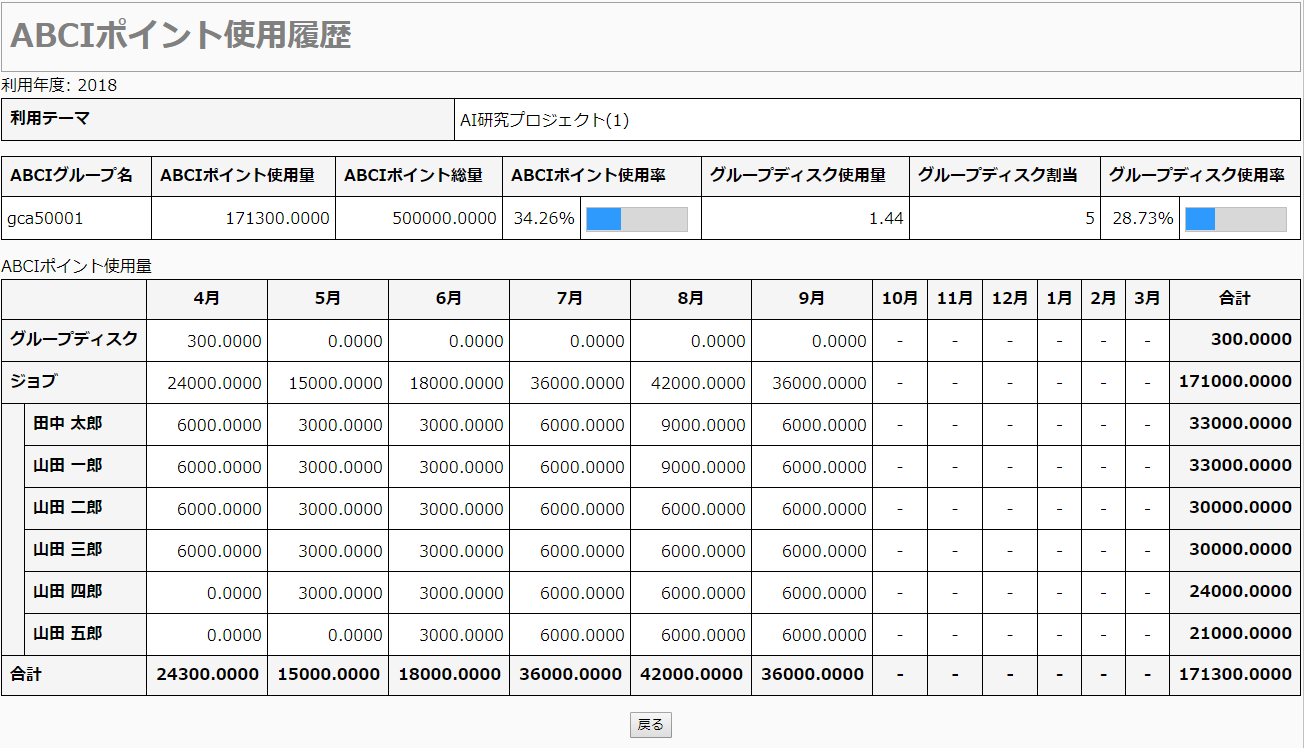
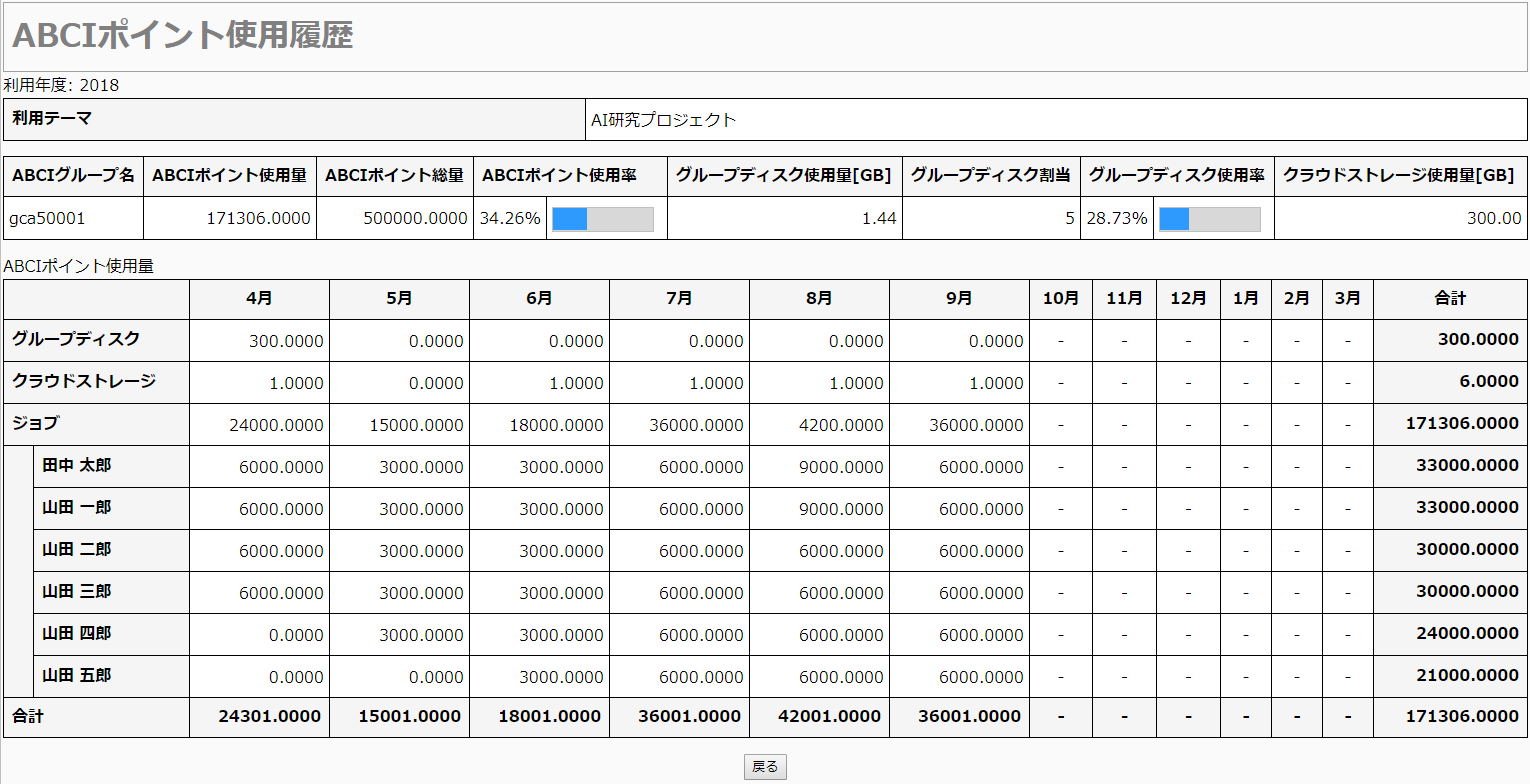
cloud storage taiou.

Changed region(s): [[0.0, 0.0, 1.0, 1.0], [0.9816, 0.0, 1.0, 0.0922]]

diff --git a/portal/ja/docs/03.md b/portal/ja/docs/03.md
@@ -8,6 +8,7 @@
 - 「ABCIポイント使用履歴」の参照
 - 「ABCIポイント追加履歴」の参照
 - 「利用グループ管理」
+- 「クラウドストレージ管理」の利用開始、管理者用クラウドストレージアカウントの追加、アクセスキーの一括削除
 
 ## 3.2. ノード予約・キャンセル
 
@@ -41,7 +42,7 @@ ABCIポイント使用履歴画面でABCIグループに登録されている利
 ![[[Screenshot]]](img/3_02_A.png)
 
 月ごとの使用量を参照する場合は[詳細]をクリックします。
- 
+
 ![[[Screenshot]]](img/3_02_B.png)
 
 利用者ごと、月ごとのABCIポイント使用状況が表示されます。
@@ -199,4 +200,53 @@ ABCIグループに追加する利用者について各項目を入力して[完
 ![[[Screenshot]]](img/3_05_D.png)
 
 保存完了画面が表示され、編集内容が保存されます。
+
+## 3.6. クラウドストレージ管理
+
+サイドメニューから[クラウドストレージ管理]をクリックします。
+ 
+![[[Screenshot]]](img/3_06_A.png)
+
+利用可能なグループ一覧が表示されます。
+
+### 3.6.1 クラウドストレージ利用開始
+
+画面上の[利用開始]をクリックします。
+
+![[[Screenshot]]](img/3_06_B.png)
+
+確認事項を読み、同意する場合は「全てを同意して次へ進む」をクリックします。
+
+![[[Screenshot]]](img/3_06_C.png)
+
+クラウドストレージが利用可能な状態になると、利用状態に[利用中]と表示されます。
+
+### 3.6.2 クラウドストレージアカウント管理
+
+画面上の[CSアカウント管理]をクリックします。
+
+![[[Screenshot]]](img/3_06_D.png)
+
+### 3.6.3. クラウドストレージアカウント追加
+
+画面上の[管理者用CSアカウント追加]をクリックすると確認ダイアログが表示されますので「OK」をクリックします。
+
+![[[Screenshot]]](img/3_06_E.png)
+
+管理者用のクラウドストレージアカウントの追加が完了すると、管理者用のクラウドストレージアカウント追加完了画面が表示されます。  
+「CSアカウント一覧へ」をクリックします。
+
+![[[Screenshot]]](img/3_06_F.png)
+
+ABCIグループに所属している他の利用者がクラウドストレージアカウントを追加している場合は一覧に表示されます。
+
+![[[Screenshot]]](img/3_06_G.png)
+
+### 3.6.4. アクセスキーの一括削除
+
+アクセスキーを削除したいクラウドストレージアカウントの行にチェックを付け、[アくセスキーの一括削除]をクリックすると確認ダイアログが表示されますので[OK]をクリックします。
+
+![[[Screenshot]]](img/3_06_H.png)
+
+アクセスキーの削除が完了すると、アクセスキーの削除完了画面が表示されます。
 
